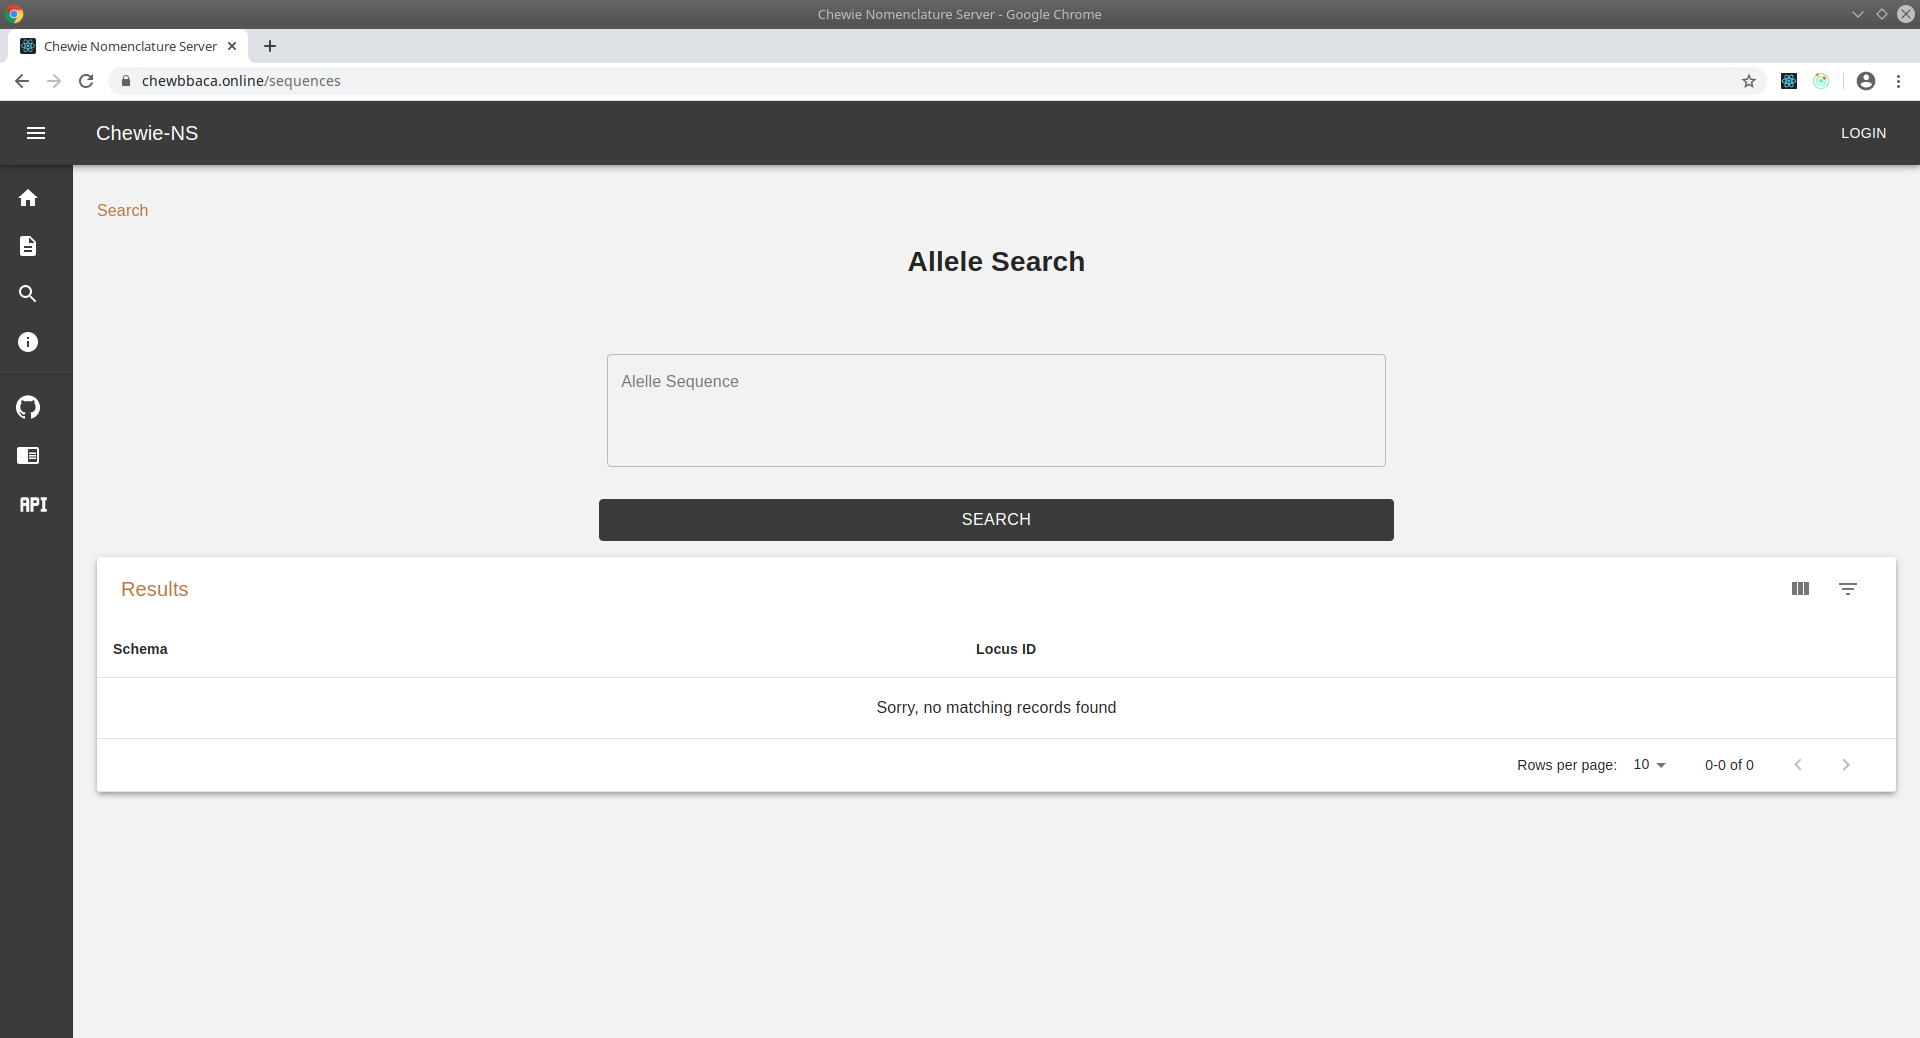
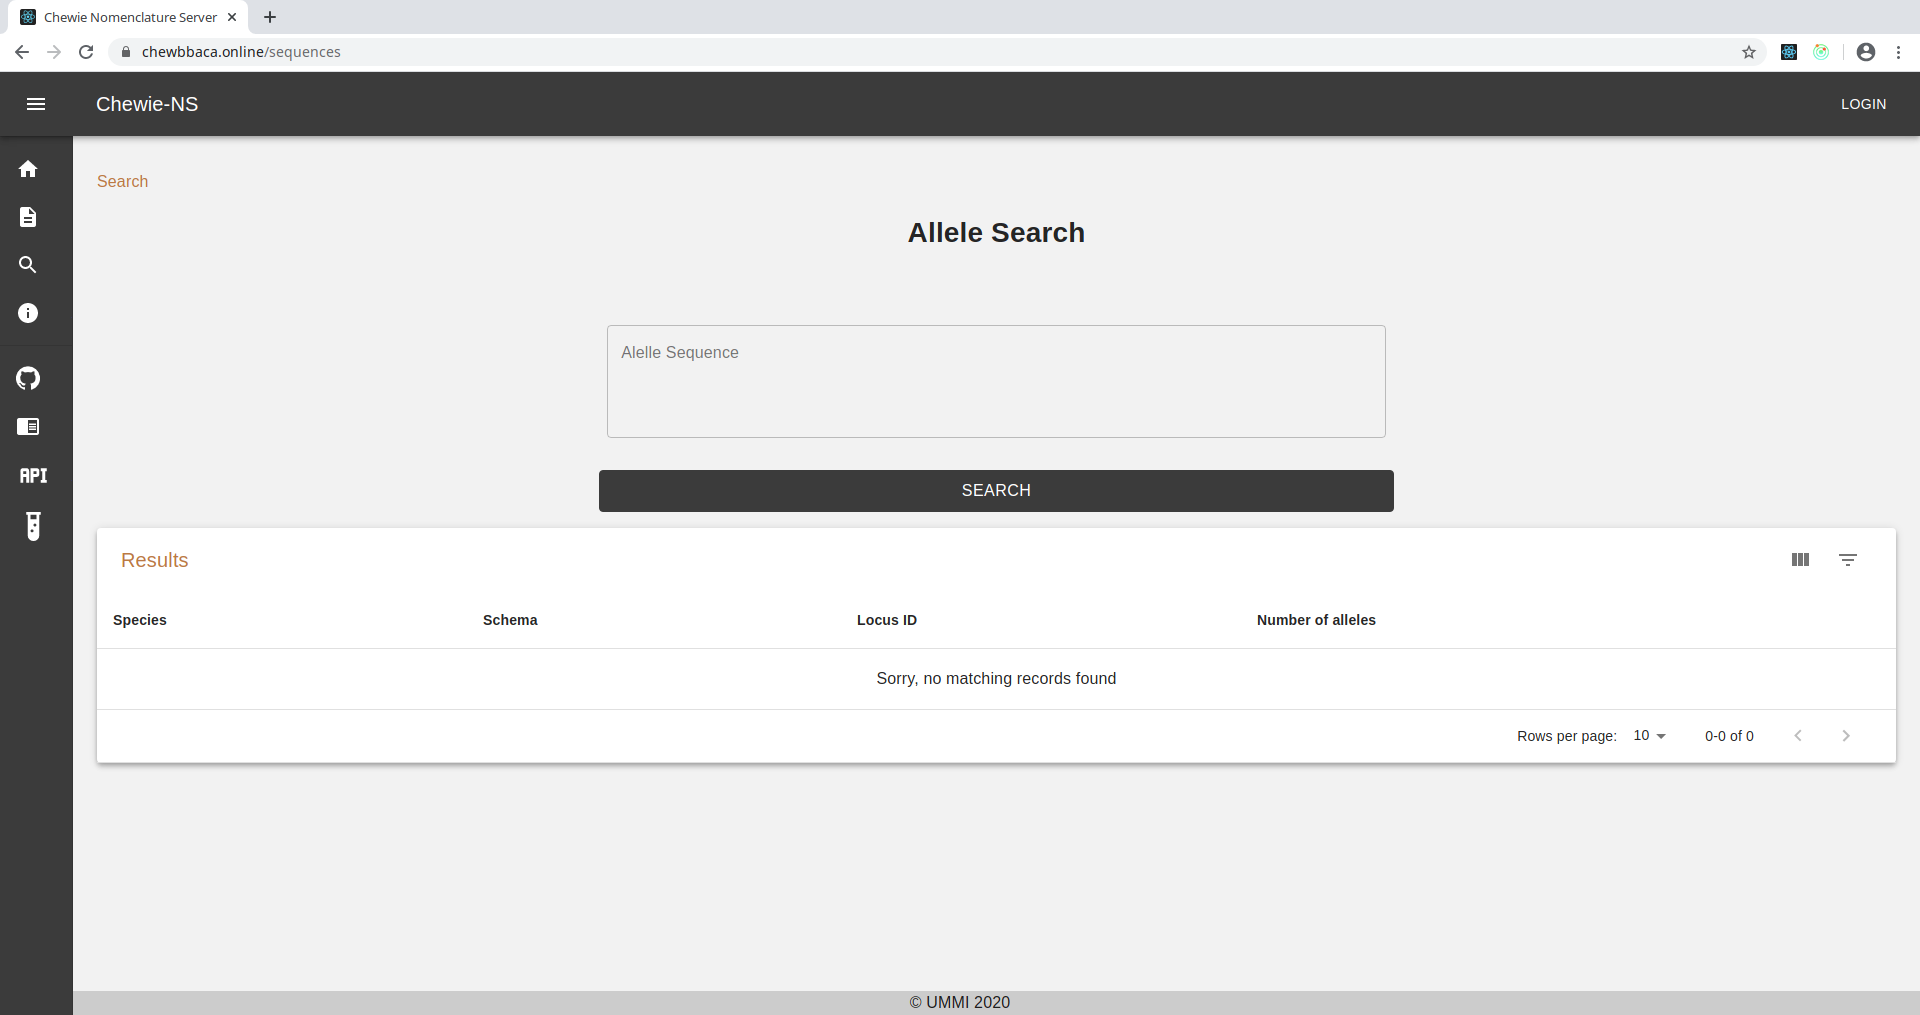
Added descriptions for the new colmuns of the search results table. Updated screenshots.

diff --git a/docs/user_interface/search.rst b/docs/user_interface/search.rst
@@ -23,8 +23,10 @@ is rendered with a message indicating that no matches were found.
 
 **If the allele exists** in the Chewie-NS database, the table will contain the following columns:
 
+- **Species**: the name of the species that the allele sequence belongs to.
 - **Schema**: the ID of the schema the allele corresponding to that sequence belongs to. Clicking on the Schema ID will take you to the :doc:`schema_evaluation` page.
 - **Locus ID**: the ID of the locus the allele corresponding to that sequence belongs to. Clicking on the Locus ID will take you to the :doc:`locus_details` page.
+- **Number of alleles**: the number of alleles of the loci the sequence matched to.
 
 .. figure:: ../resources/sequences_filled.png
     :align: center
